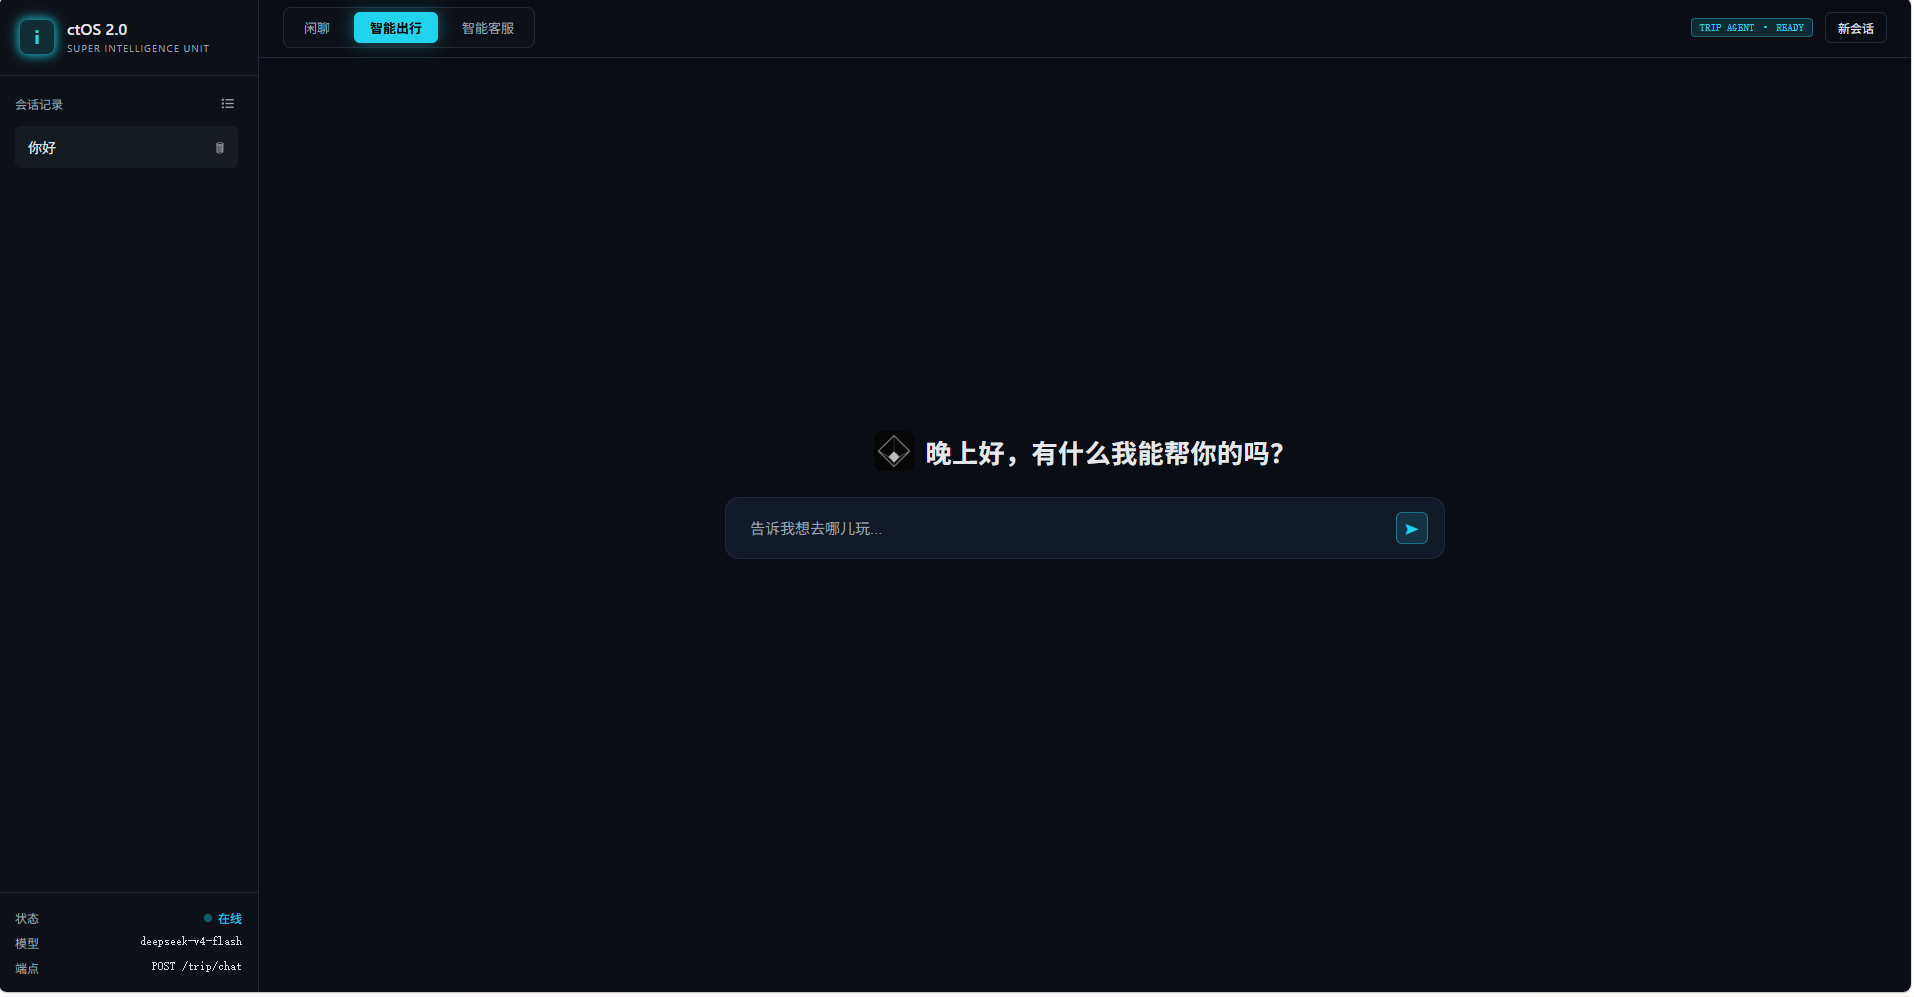
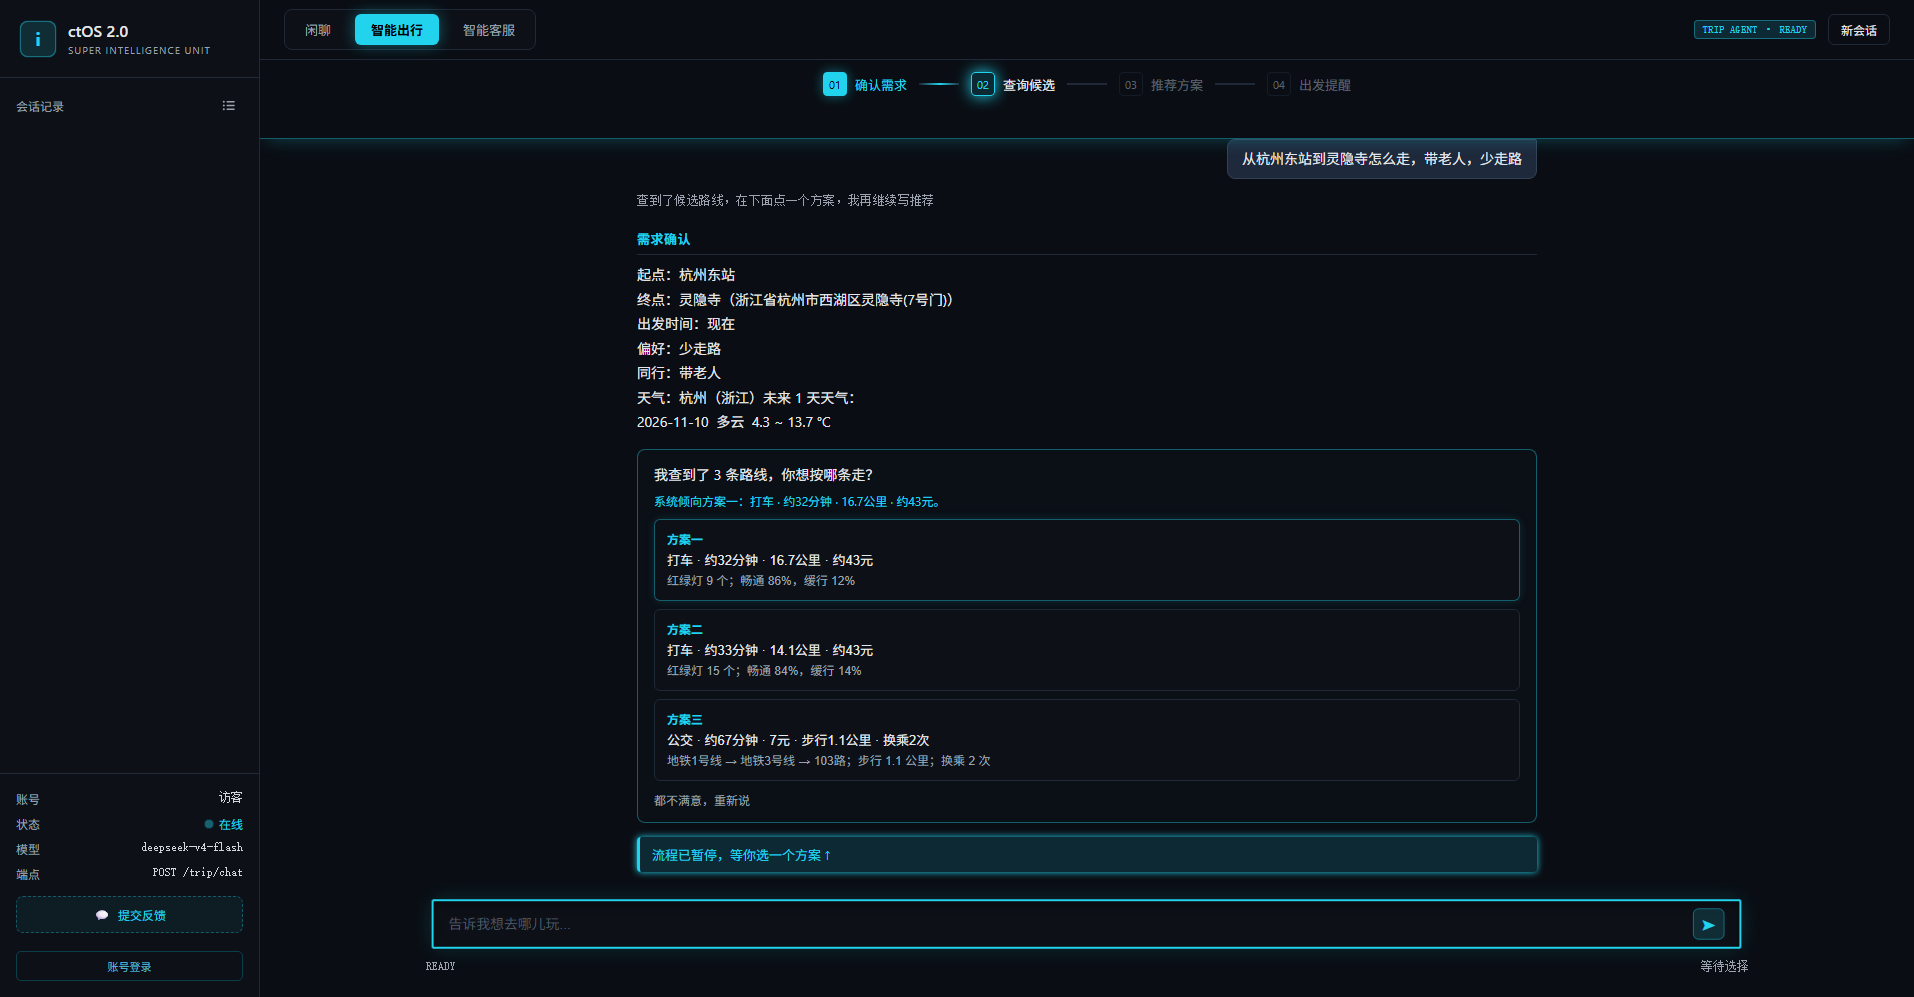
README 换上新界面截图
原来的两张是 10 月底的旧界面，换成能体现新能力的：
- ctOS_trip01：路线决策，等你从几条真实方案里选一条
- ctOS_trip02：旅游攻略，景点清单勾选与补充

图片总数不变（还是 5 张），只替换智能出行这两张。

diff --git a/README.md b/README.md
@@ -10,11 +10,14 @@
 
 ## 界面
 
-**智能出行** — 两种模式：问“从 A 到 B 怎么走”会查真实路线、给出多方案对比，并暂停让你选一条；问“去某地玩几天”还是原来的攻略流程：
+**智能出行** — 两种模式，都会在中途停下来让你确认：
+
+- 问“从 A 到 B 怎么走”：查真实的多条方案，**你选一条**，再写对比和推荐
+- 问“去某地玩几天”：出完景点清单**让你勾选**，确认后再排行程、算路线
 
 <p>
-  <img src="screenshot/ctOS_trip01.png" width="49%" alt="出行开场页">
-  <img src="screenshot/ctOS_trip02.png" width="49%" alt="出行规划结果">
+  <img src="screenshot/ctOS_trip01.png" width="49%" alt="路线决策：等你选方案">
+  <img src="screenshot/ctOS_trip02.png" width="49%" alt="旅游攻略：勾选景点">
 </p>
 
 **闲聊** — 多轮记忆、会话切换：
